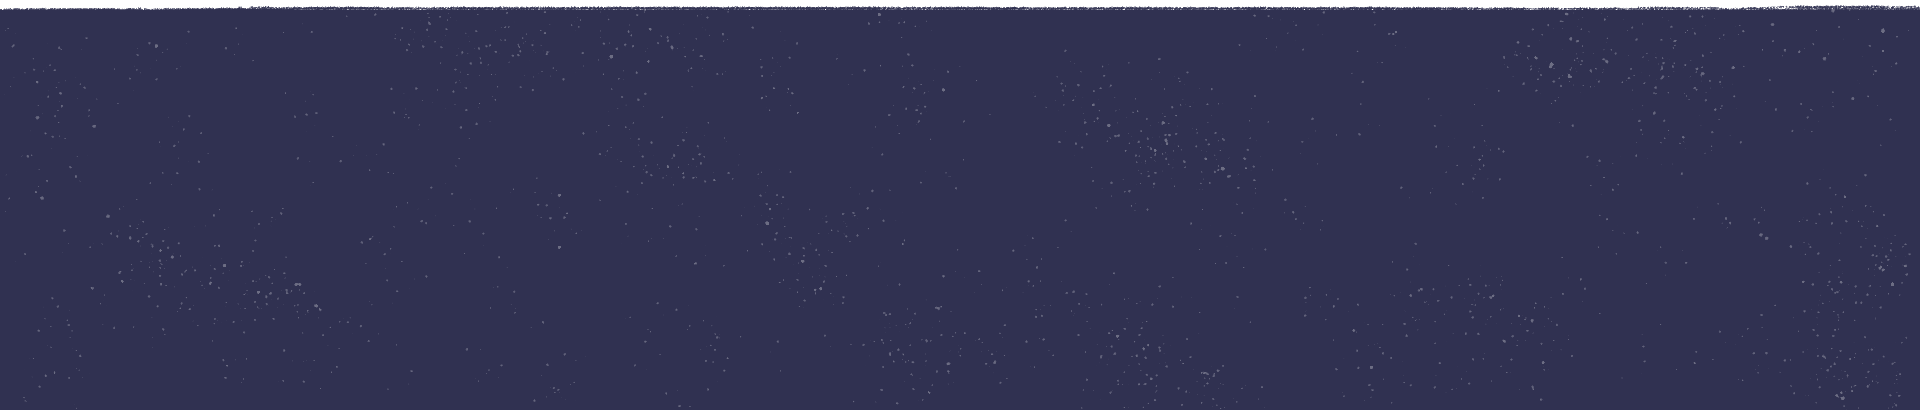
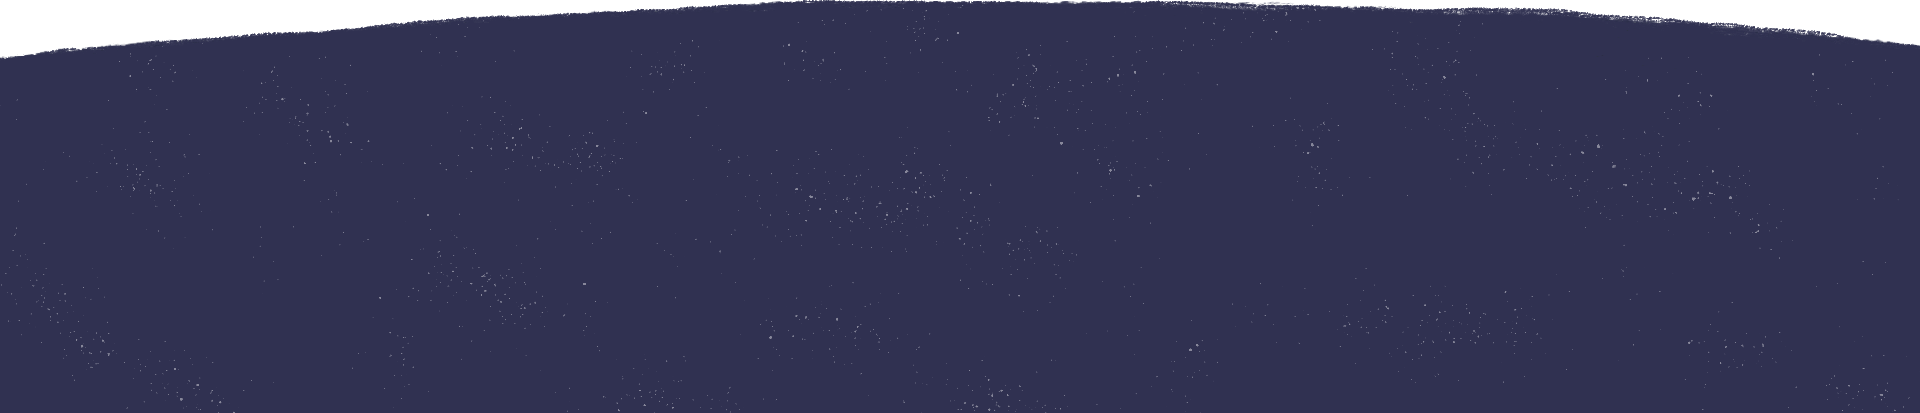
add ground

Changed region(s): [[0.0, 0.0, 1.0, 0.1463]]

diff --git a/src/game/scenes/main/scene.ts b/src/game/scenes/main/scene.ts
@@ -15,6 +15,7 @@ export class GameScene extends Phaser.Scene {
   private score: number = 0;
   private CharacterManager: CharacterManager;
   private background?: Phaser.GameObjects.Image;
+  private ground?: Phaser.GameObjects.Image;
   private gameConfig?: Phaser.Types.Scenes.SettingsConfig = gameConfig;
 
   constructor() {
@@ -70,6 +71,12 @@ export class GameScene extends Phaser.Scene {
     Align.scaleToGameH(this.background, 1)
     Align.centerV(this.background)
     Align.left(this.background)
+
+    this.ground = this.add.image(0, 0, "ground")
+    Align.scaleToGameW(this.ground, 1) // half height of the screen
+    Align.centerH(this.ground) // half height of the screen
+    Align.bottom(this.ground)
+
     const arrows: Array<Arrow> = [];
     const characters: Array<PhysiqueCharacter> = [];
 
@@ -106,8 +113,7 @@ export class GameScene extends Phaser.Scene {
       400,
       400,
       100,
-      800,
-      0xffffff
+      800
     ) as any;
     this.physics.add.existing(goodArrowCollider);
 

diff --git a/src/game/classes/utils/align.js b/src/game/classes/utils/align.js
@@ -15,6 +15,9 @@ class Align {
   static centerV(obj) {
     obj.y = gameConfig.height / 2;
   }
+  static bottom(obj) {
+    obj.y = gameConfig.height - obj.displayHeight / 2;
+  }
   static center(obj) {
     obj.x = gameConfig.width / 2;
     obj.y = gameConfig.height / 2;
